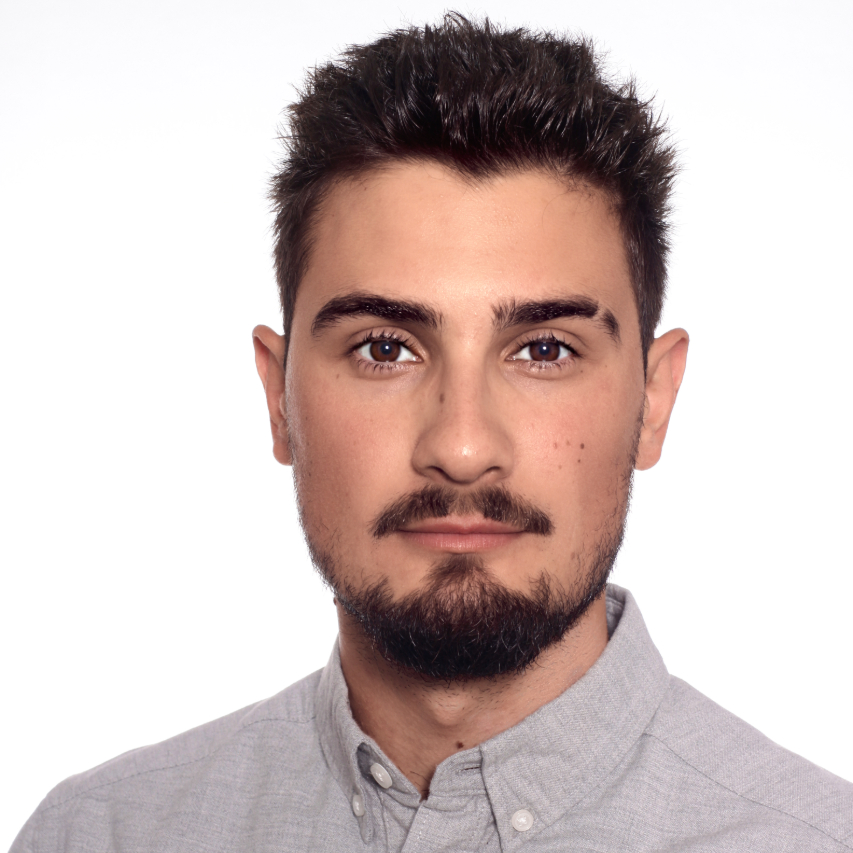
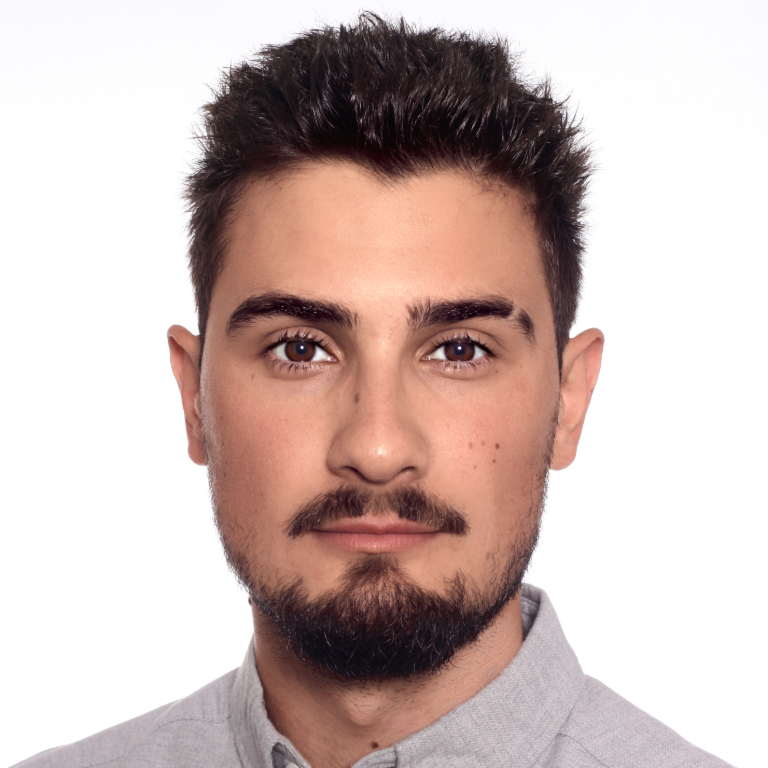
Cropped profile picture for centering. Changed font weight to regular. Removed extra copyright information. Renamed Projects page into Software.Added text links on sidebar.

diff --git a/_layouts/default.html b/_layouts/default.html
@@ -25,7 +25,7 @@
         <ul>
 		<li><a class="active" href="about.html">ABOUT</a></li>
 		<li><a href="research.html">RESEARCH</a></li>
-		<li><a href="projects.html">PROJECTS</a></li>
+		<li><a href="software.html">SOFTWARE</a></li>
 		<li><a href="drawings.html">DRAWINGS</a></li>
 		<li><a href="cv.html" target="_blank" rel="noopener noreferrer">CV</a></li>
         </ul>
@@ -39,7 +39,7 @@
 	        </div>
 	            <!-- Footer -->
 		    <footer id="footer" class="clearfix">
-			©  Aleksandar Anžel 2021
+			©  2021
 		    </footer>
         </main>
         
@@ -53,19 +53,19 @@
 	   
    		<div class="button">
 			<div class="icon">
-		<a href="mailto:aleksandar.anzel@uni-marburg.de"><i class="icon-envelope"></i></a></div>
+		<a href="mailto:aleksandar.anzel@uni-marburg.de"><i class="icon-envelope"></i>&emsp;E-Mail</a></div>
 		      </div>
 	        <div class="button">
 			<div class="icon">
-		<a href="https://github.com/AAnzel" target="_blank" rel="noopener noreferrer"><i class="icon-github"></i></a></div>
+		<a href="https://github.com/AAnzel" target="_blank" rel="noopener noreferrer"><i class="icon-github"></i>&emsp;GitHub</a></div>
 		      </div>
 		<div class="button">
 			<div class="icon">
-		<a href="https://twitter.com/AleksandarAnzel" target="_blank" rel="noopener noreferrer"><i class="icon-twitter"></i></a></div>
+		<a href="https://twitter.com/AleksandarAnzel" target="_blank" rel="noopener noreferrer"><i class="icon-twitter"></i>&emsp;Twitter</a></div>
 		      </div>
 		<div class="button">
 			<div class="icon">
-		<a href="https://www.linkedin.com/in/aanzel/" target="_blank" rel="noopener noreferrer"><i class="icon-linkedin"></i></a></div>
+		<a href="https://www.linkedin.com/in/aanzel/" target="_blank" rel="noopener noreferrer"><i class="icon-linkedin"></i>&emsp;LinkedIn</a></div>
 		      </div>
     </aside>
     

diff --git a/assets/main.scss b/assets/main.scss
@@ -2,10 +2,14 @@
 ---
 
 @import "{{ site.theme }}";
-@import url('https://fonts.googleapis.com/css2?family=Titillium+Web:wght@200&display=swap');
+@import url('https://fonts.googleapis.com/css2?family=Titillium+Web&display=swap');
+
+*{
+    color: #161616;
+}
 
 aside img{
-    border-radius: 40%;
+    border-radius: 25%;
     height: auto;
     max-width: 100%;
     width: 30vw;
@@ -46,14 +50,13 @@ a:active {
   display: block;
   color: #333;
   background: #fff;
-  cursor: pointer;
-  transition: all 0.3s ease-out;
 }
 
 .button .icon{
   display: block;
-  text-align: center;
+  text-align: left;
   transition: all 0.3s ease-out;
+  padding: 0 0 0 30%;
 }
 
 .button .icon a:active{

diff --git a/research.html b/research.html
@@ -34,8 +34,8 @@ My main research thesis is that computer science methods will profoundly acceler
 </ul>
 
 
-You can find more information on my ORCID record <div itemscope itemtype="https://schema.org/Person"><a itemprop="sameAs" content="https://orcid.org/0000-0002-0678-2870" href="https://orcid.org/0000-0002-0678-2870" target="orcid.widget" rel="me noopener noreferrer" style="vertical-align:top;"><img src="https://orcid.org/sites/default/files/images/orcid_16x16.png" style="width:1em;margin-right:.5em;" alt="ORCID iD icon">https://orcid.org/0000-0002-0678-2870</a></div>
-
+<br/>
+<br/>
 <br/>
 <u><b>Selected events</b></u>:
 <small>

diff --git a/software.html b/software.html
@@ -22,7 +22,7 @@ layout: post
   </head>
 
   <body>
-  <h2> <b>Projects</b></h2>
+  <h2> <b>Software</b></h2>
 
 All of the projects presented here were completed by me or in a team for academic and self-learning purposes.
 <ul>
